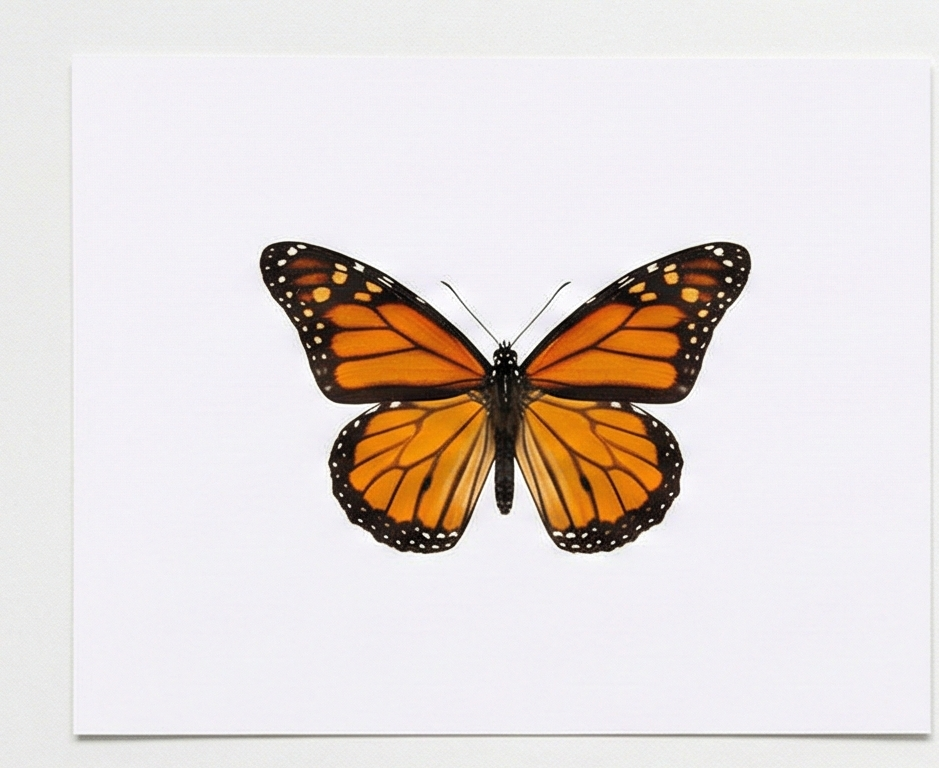
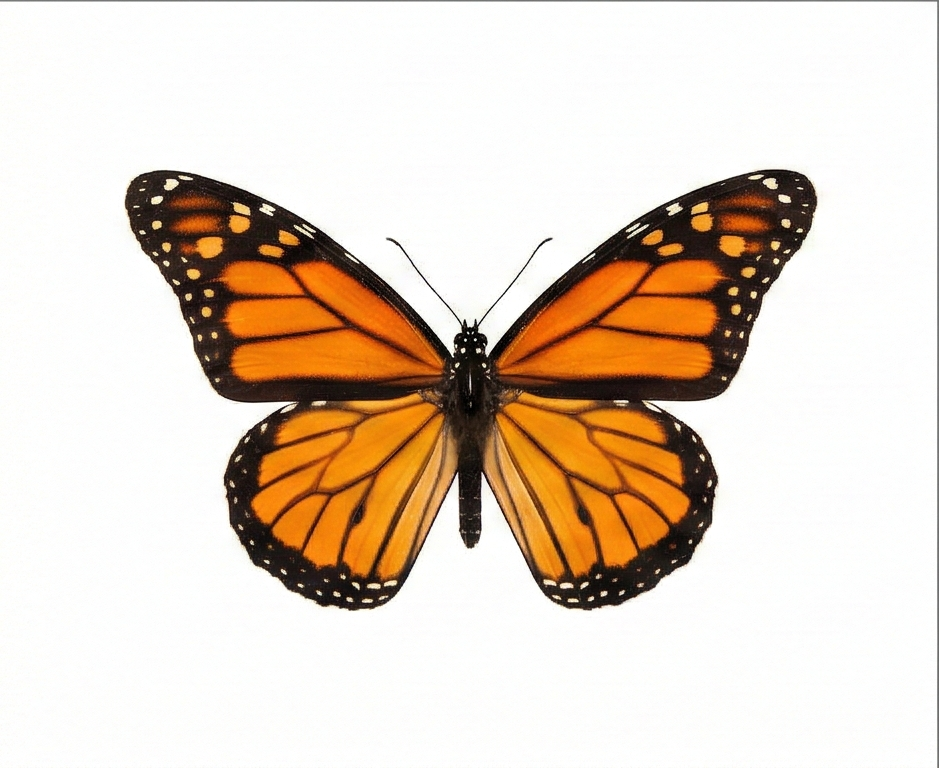
feat: add multi-tagging support with autocomplete and import new insect imagery to the vocabulary library

diff --git a/image-library.html b/image-library.html
@@ -295,13 +295,14 @@
             <span id="bulkCount" style="font-weight: 600; font-size: 14px; color: #0284c7;">0 selected</span>
             <button class="bulk-btn secondary" onclick="selectAllVisible()">Select All Visible</button>
             <div style="flex: 1;"></div>
-            <input type="text" id="bulkTagInput" class="search-input" style="padding: 6px 12px; min-width: 150px; flex: none;" placeholder="Tag selected...">
+            <input type="text" id="bulkTagInput" class="search-input" style="padding: 6px 12px; min-width: 150px; flex: none;" placeholder="Tag selected..." list="available-tags" onkeypress="if(event.key === 'Enter') applyBulkTag()">
             <button class="bulk-btn" onclick="applyBulkTag()">Add Tag</button>
             <button class="bulk-btn secondary" onclick="clearSelection()">Clear</button>
         </div>
         <div class="stats" id="stats">
             Loading...
         </div>
+        <datalist id="available-tags"></datalist>
     </header>
 
     <main id="grid">
@@ -398,6 +399,11 @@
                     ${tag}
                 </button>
             `).join('');
+
+            const datalist = document.getElementById('available-tags');
+            if (datalist) {
+                datalist.innerHTML = allTags.map(tag => `<option value="${tag}">`).join('');
+            }
         }
 
         async function openInFinder(key) {
@@ -417,16 +423,21 @@
 
         async function handleTagInput(e, key) {
             if (e.key === 'Enter') {
-                const newTag = e.target.value.trim().toLowerCase();
-                if (!newTag) return;
+                const newTagRaw = e.target.value.trim().toLowerCase();
+                if (!newTagRaw) return;
+                
+                const tagsToAdd = newTagRaw.split(',').map(t => t.trim()).filter(t => t);
+                if (tagsToAdd.length === 0) return;
                 
                 const currentTags = imageData[key].tags || [];
-                if (currentTags.includes(newTag)) {
+                
+                const newTagsFiltered = tagsToAdd.filter(t => !currentTags.includes(t));
+                if (newTagsFiltered.length === 0) {
                     e.target.value = '';
                     return;
                 }
                 
-                const updatedTags = [...currentTags, newTag];
+                const updatedTags = [...currentTags, ...newTagsFiltered].sort();
                 
                 try {
                     const res = await fetch('/api/vocabulary/tags', {
@@ -444,8 +455,15 @@
                     // Update local state
                     imageData[key].tags = data.tags;
                     
-                    if (!allTags.includes(newTag)) {
-                        allTags.push(newTag);
+                    let tagsChanged = false;
+                    newTagsFiltered.forEach(t => {
+                        if (!allTags.includes(t)) {
+                            allTags.push(t);
+                            tagsChanged = true;
+                        }
+                    });
+                    
+                    if (tagsChanged) {
                         allTags.sort();
                         renderTags();
                     }
@@ -559,8 +577,11 @@
 
         async function applyBulkTag() {
             const input = document.getElementById('bulkTagInput');
-            const newTag = input.value.trim().toLowerCase();
-            if (!newTag || selectedImages.size === 0) return;
+            const newTagRaw = input.value.trim().toLowerCase();
+            if (!newTagRaw || selectedImages.size === 0) return;
+            
+            const tagsToAdd = newTagRaw.split(',').map(t => t.trim()).filter(t => t);
+            if (tagsToAdd.length === 0) return;
             
             const keysArray = Array.from(selectedImages);
             
@@ -568,28 +589,38 @@
                 const res = await fetch('/api/vocabulary/tags/bulk', {
                     method: 'POST',
                     headers: { 'Content-Type': 'application/json' },
-                    body: JSON.stringify({ keys: keysArray, tags_to_add: [newTag] })
+                    body: JSON.stringify({ keys: keysArray, tags_to_add: tagsToAdd })
                 });
                 
                 if (!res.ok) throw new Error('API error');
                 
                 // Update local state
+                let tagsChanged = false;
                 keysArray.forEach(key => {
                     if (!imageData[key]) return;
                     const currentTags = imageData[key].tags || [];
-                    if (!currentTags.includes(newTag)) {
-                        imageData[key].tags = [...currentTags, newTag].sort();
+                    
+                    const newTagsFiltered = tagsToAdd.filter(t => !currentTags.includes(t));
+                    if (newTagsFiltered.length > 0) {
+                        imageData[key].tags = [...currentTags, ...newTagsFiltered].sort();
                     }
                 });
                 
-                if (!allTags.includes(newTag)) {
-                    allTags.push(newTag);
+                tagsToAdd.forEach(t => {
+                    if (!allTags.includes(t)) {
+                        allTags.push(t);
+                        tagsChanged = true;
+                    }
+                });
+                
+                if (tagsChanged) {
                     allTags.sort();
                     renderTags();
                 }
                 
                 input.value = '';
-                clearSelection();
+                // Keep selection active so user can add more tags if desired
+                renderGrid();
             } catch (err) {
                 alert('Could not bulk tag. Make sure you have restarted the Python admin server (python3 scripts/admin.py) to load the new bulk tagging code.');
             }
@@ -658,7 +689,7 @@
                             <div class="card-path">${key}</div>
                             <div class="card-tags">
                                 ${tagsHtml}
-                                ${selectionMode ? '' : `<input type="text" class="add-tag-input" placeholder="+ tag" onkeypress="handleTagInput(event, '${key}')">`}
+                                ${selectionMode ? '' : `<input type="text" class="add-tag-input" placeholder="+ tag" list="available-tags" onkeypress="handleTagInput(event, '${key}')">`}
                             </div>
                         </div>
                     </div>
